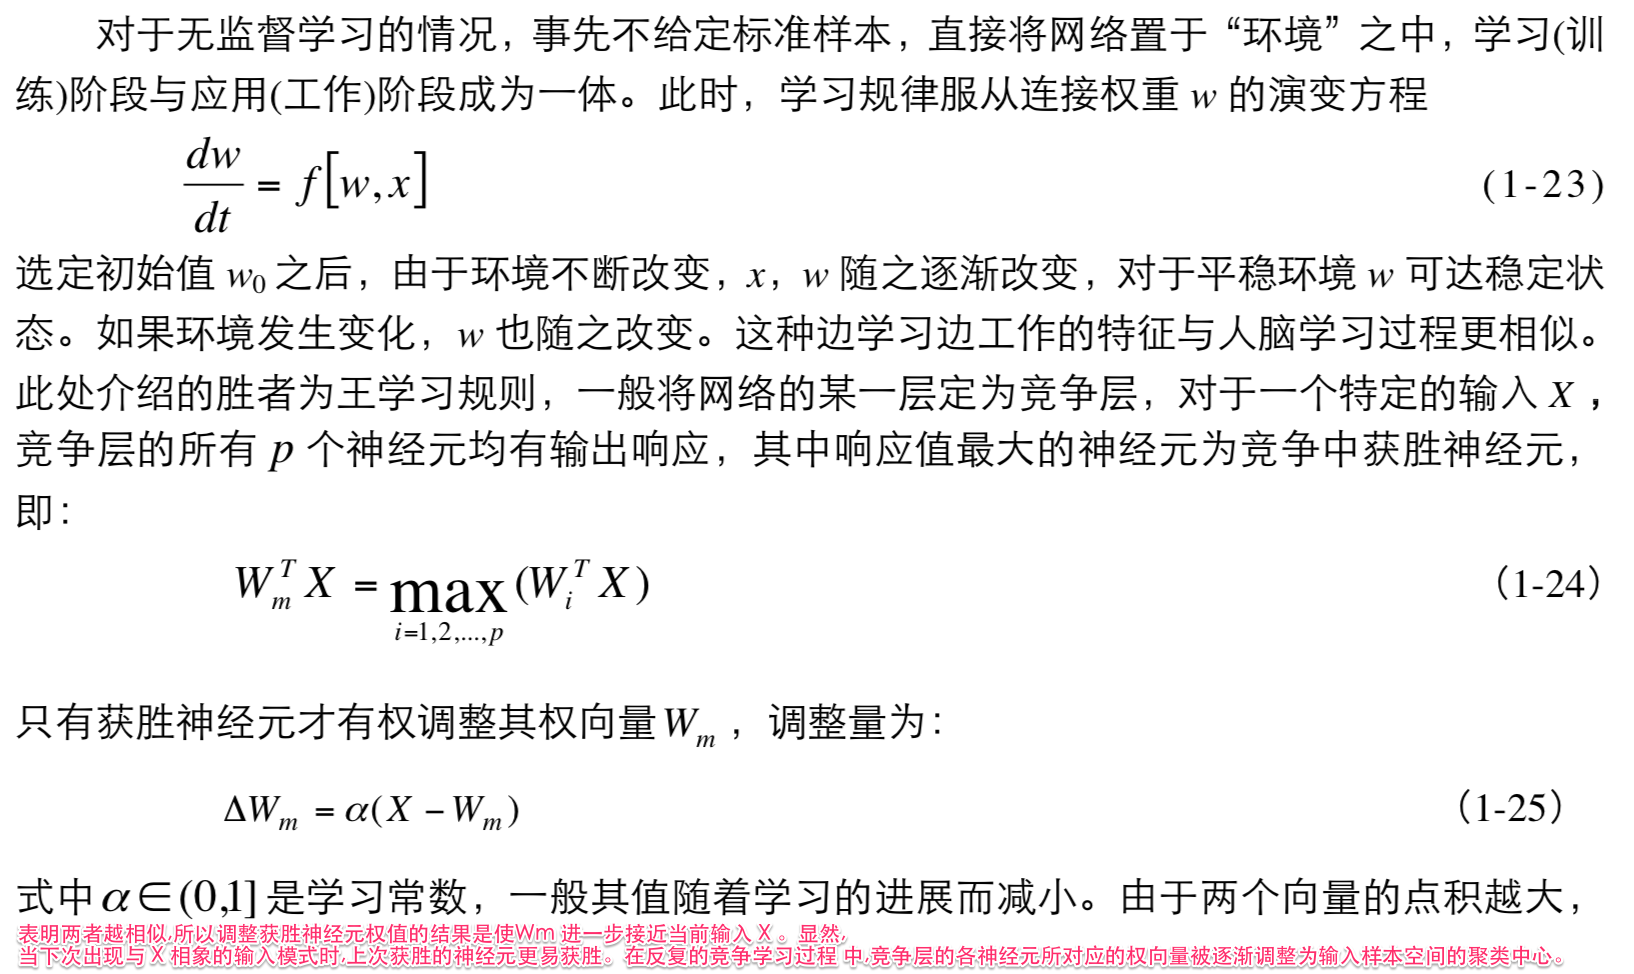
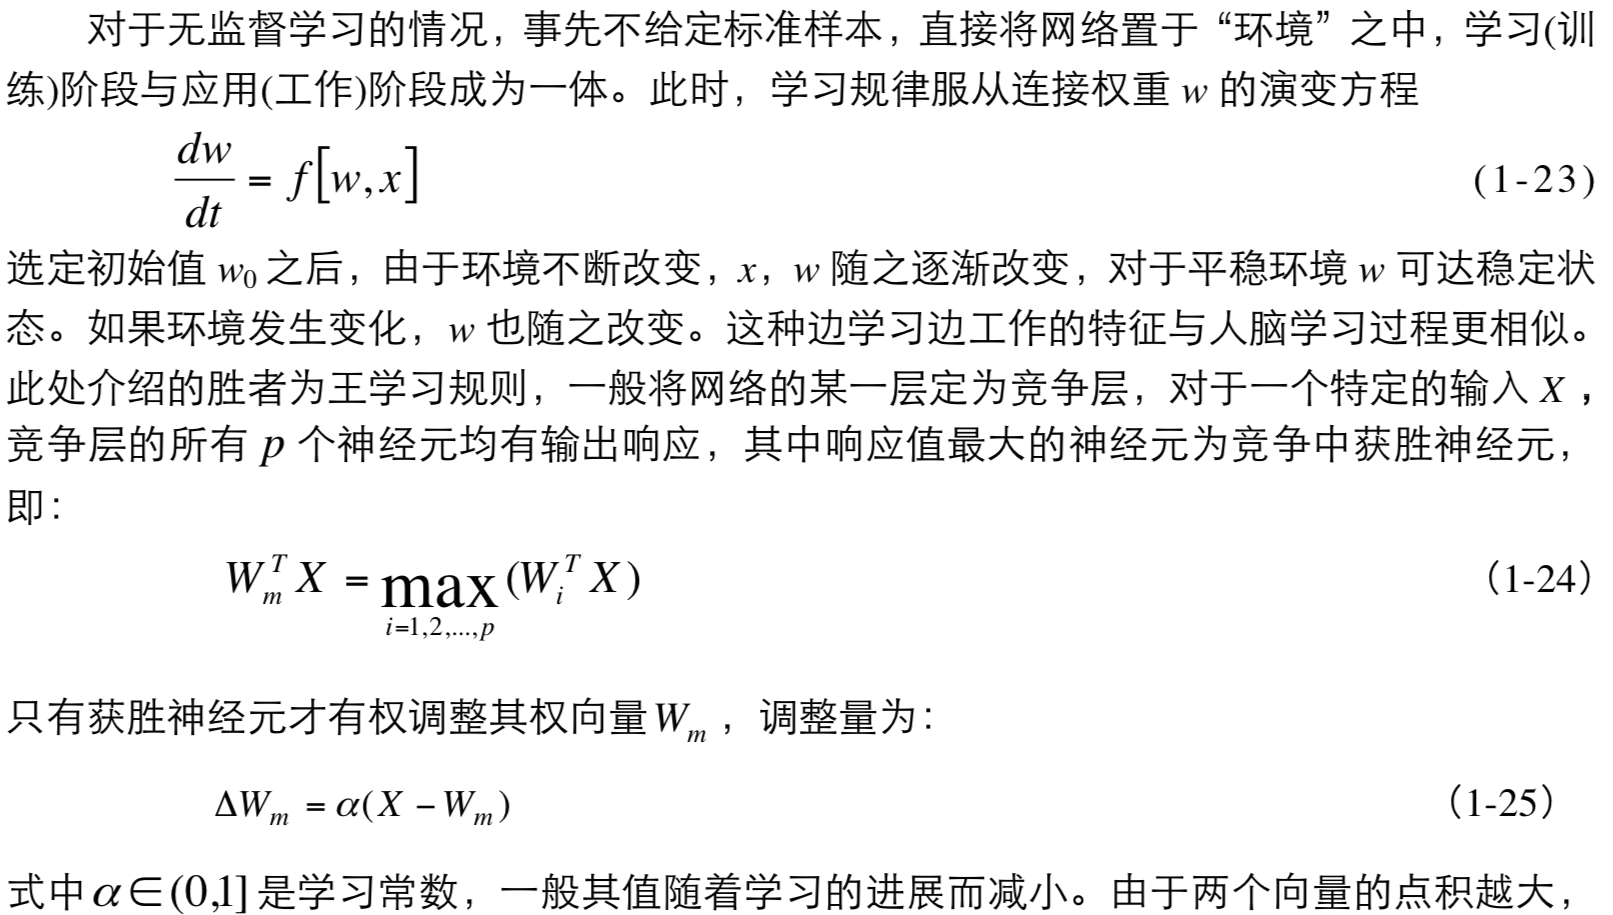
faf

diff --git a/_posts/blog/2015-02-02-神经网络基础.md b/_posts/blog/2015-02-02-神经网络基础.md
@@ -162,7 +162,8 @@ Hopfield 网络即属此种类型。
 <figure >
 <img src="/postimage/AI1/总结.png" alt="总结">
 </figure> 
-
+表明两者越相似,所以调整获胜神经元权值的结果是使Wm 进一步接近当前输入 X 。显然,当下次出现与 X 相象的输入模式时,上次获胜的神经元更易获胜。  
+在反复的竞争学习过程中,竞争层的各神经元所对应的权向量被逐渐调整为输入样本空间的聚类中心。
 
 &nbsp;   
 参考链接：  
